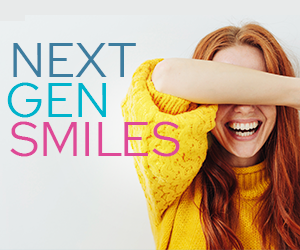
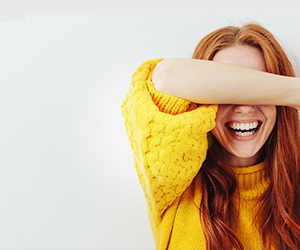
added keyframe for fade in

Changed region(s): [[0.0, 0.168, 0.6, 0.644], [0.33, 0.168, 0.45, 0.308], [0.33, 0.28, 0.36, 0.308]]

diff --git a/css/style.css b/css/style.css
@@ -29,13 +29,13 @@
   transform: scale(0);
 }
 
-.dental_care {
+.dental-care {
   transition: transform 1s ease-in;
   position: absolute;
   left: -300px;
 }
 
-.tooth_ad .dental_care {
+.tooth_ad .dental-care {
   transform: translateX(300px);
 }
 
@@ -49,25 +49,46 @@
   transform: translateX(-300px);
 }
 
-.main_img {
-  transition: transform 3s ease-in;
+.tooth_ad .main-img {
   position: absolute;
-  right: -600px;
+  top: 0px;
+  left: 0px;
+  animation: fadeIn 4s;
 }
 
-.tooth_ad .main_img {
-  transition-delay: 0.1s;
-  transform: translateX(-600px);
+@keyframes fadeIn {
+  0% {
+    opacity: 0;
+  }
+  50% {
+    opacity: 0;
+  }
+  100% {
+    opacity: 1;
+  }
 }
 
-.request_btn {
-  transition: transform 4s ease-in;
+.request-btn {
+  transition: transform 5s ease-in;
   position: absolute;
   right: 600px;
   z-index: 1;
   bottom: 15%;
 }
 
-.tooth_ad .request_btn {
+.tooth_ad .request-btn {
   transform: translateX(460px);
+}
+
+.logo {
+  transition: transform 4s ease-in;
+  position: absolute;
+  top: 10px;
+  right: 600px;
+  z-index: 1;
+  bottom: 15%;
+}
+
+.tooth_ad .logo {
+  transform: translateX(600px);
 }

diff --git a/index.html b/index.html
@@ -14,7 +14,7 @@
         <div class="row">
           <div class="column">
             <img
-              class="request_btn"
+              class="request-btn"
               src="assets/images/300x250/request_btn.png"
               alt="request_btn"
               style="width:50%"
@@ -23,7 +23,16 @@
           </div>
           <div class="column">
             <img
-              class="dental_care"
+              class="logo"
+              src="assets/images/300x250/logo.png"
+              alt="logo"
+              style="width:100%"
+              style="height:100%"
+            />
+          </div>
+          <div class="column">
+            <img
+              class="dental-care"
               src="assets/images/300x250/dental_care_txt.png"
               alt="dental_care"
               style="width:100%"
@@ -48,7 +57,7 @@
           </div>
           <div class="column">
             <img
-              class="main_img"
+              class="main-img"
               src="assets/images/300x250/main_img.png"
               alt="main_img"
               style="width:100%"
